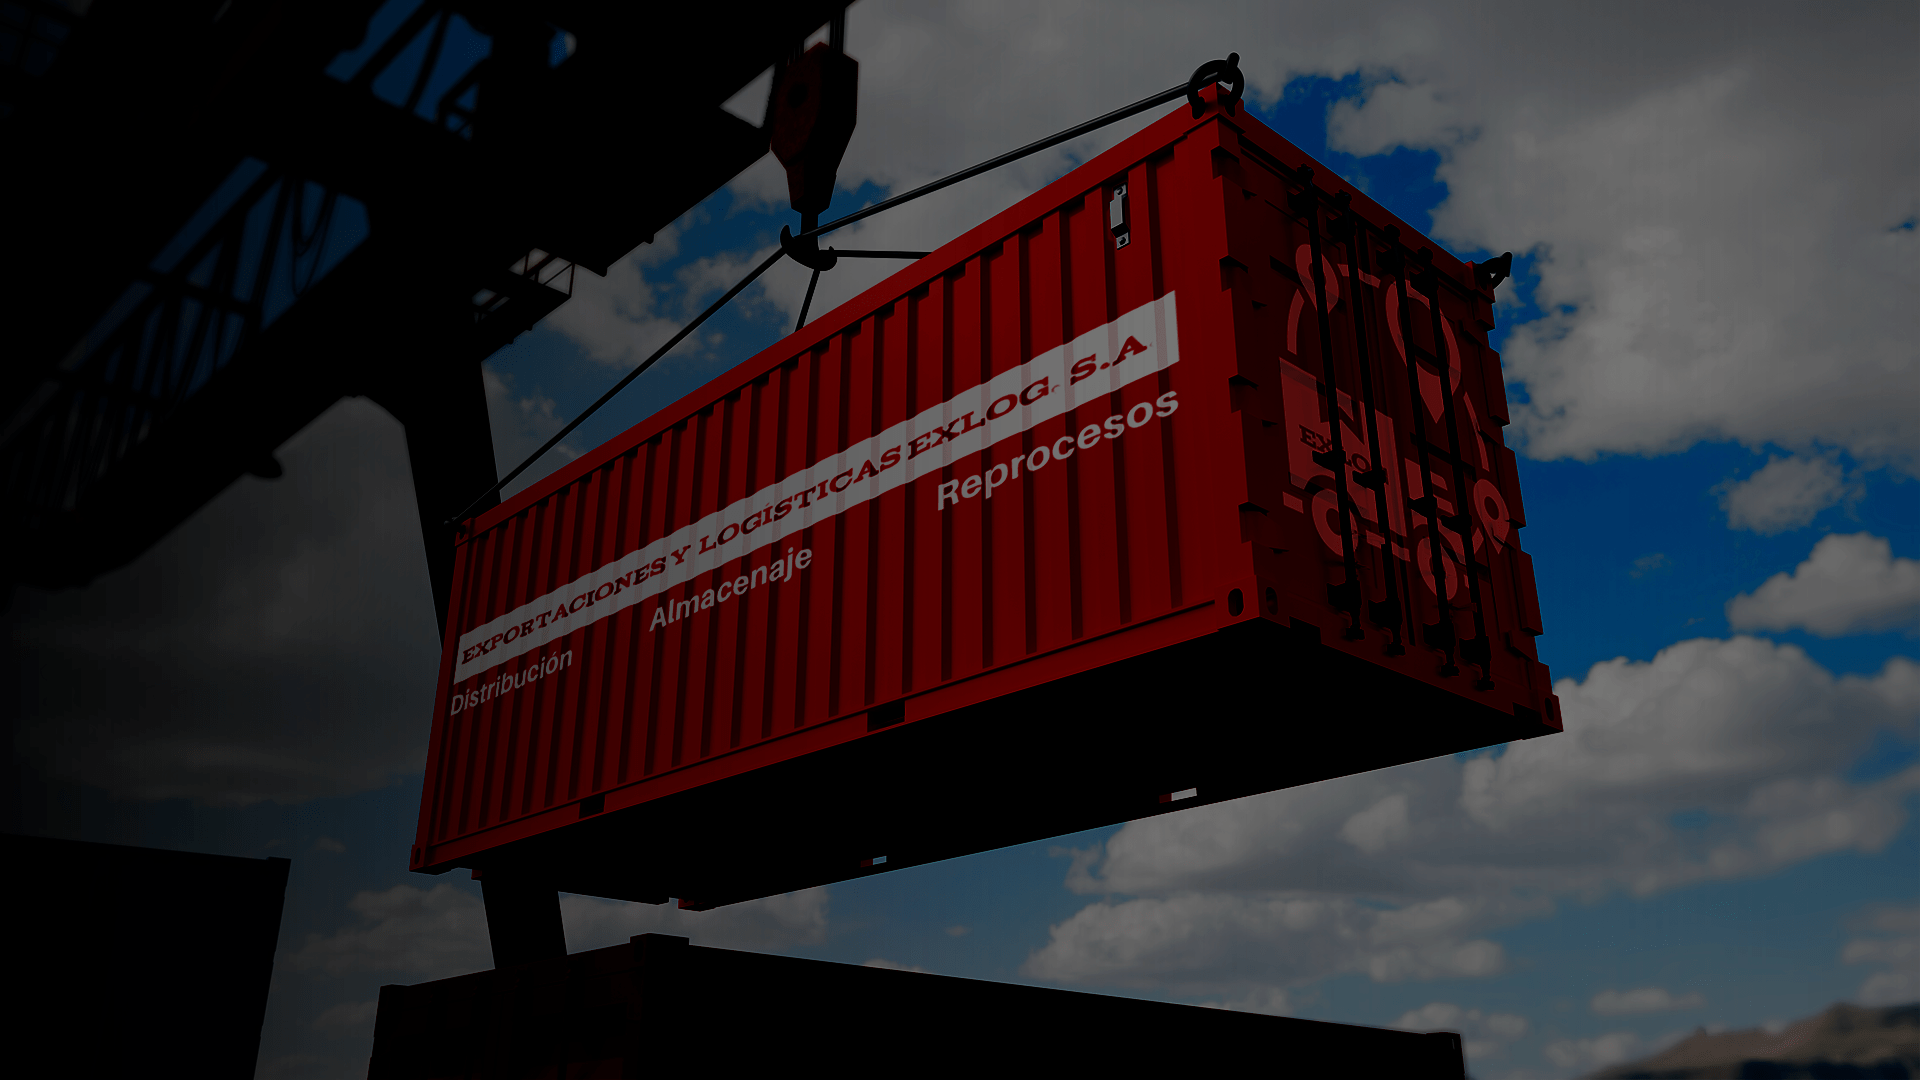
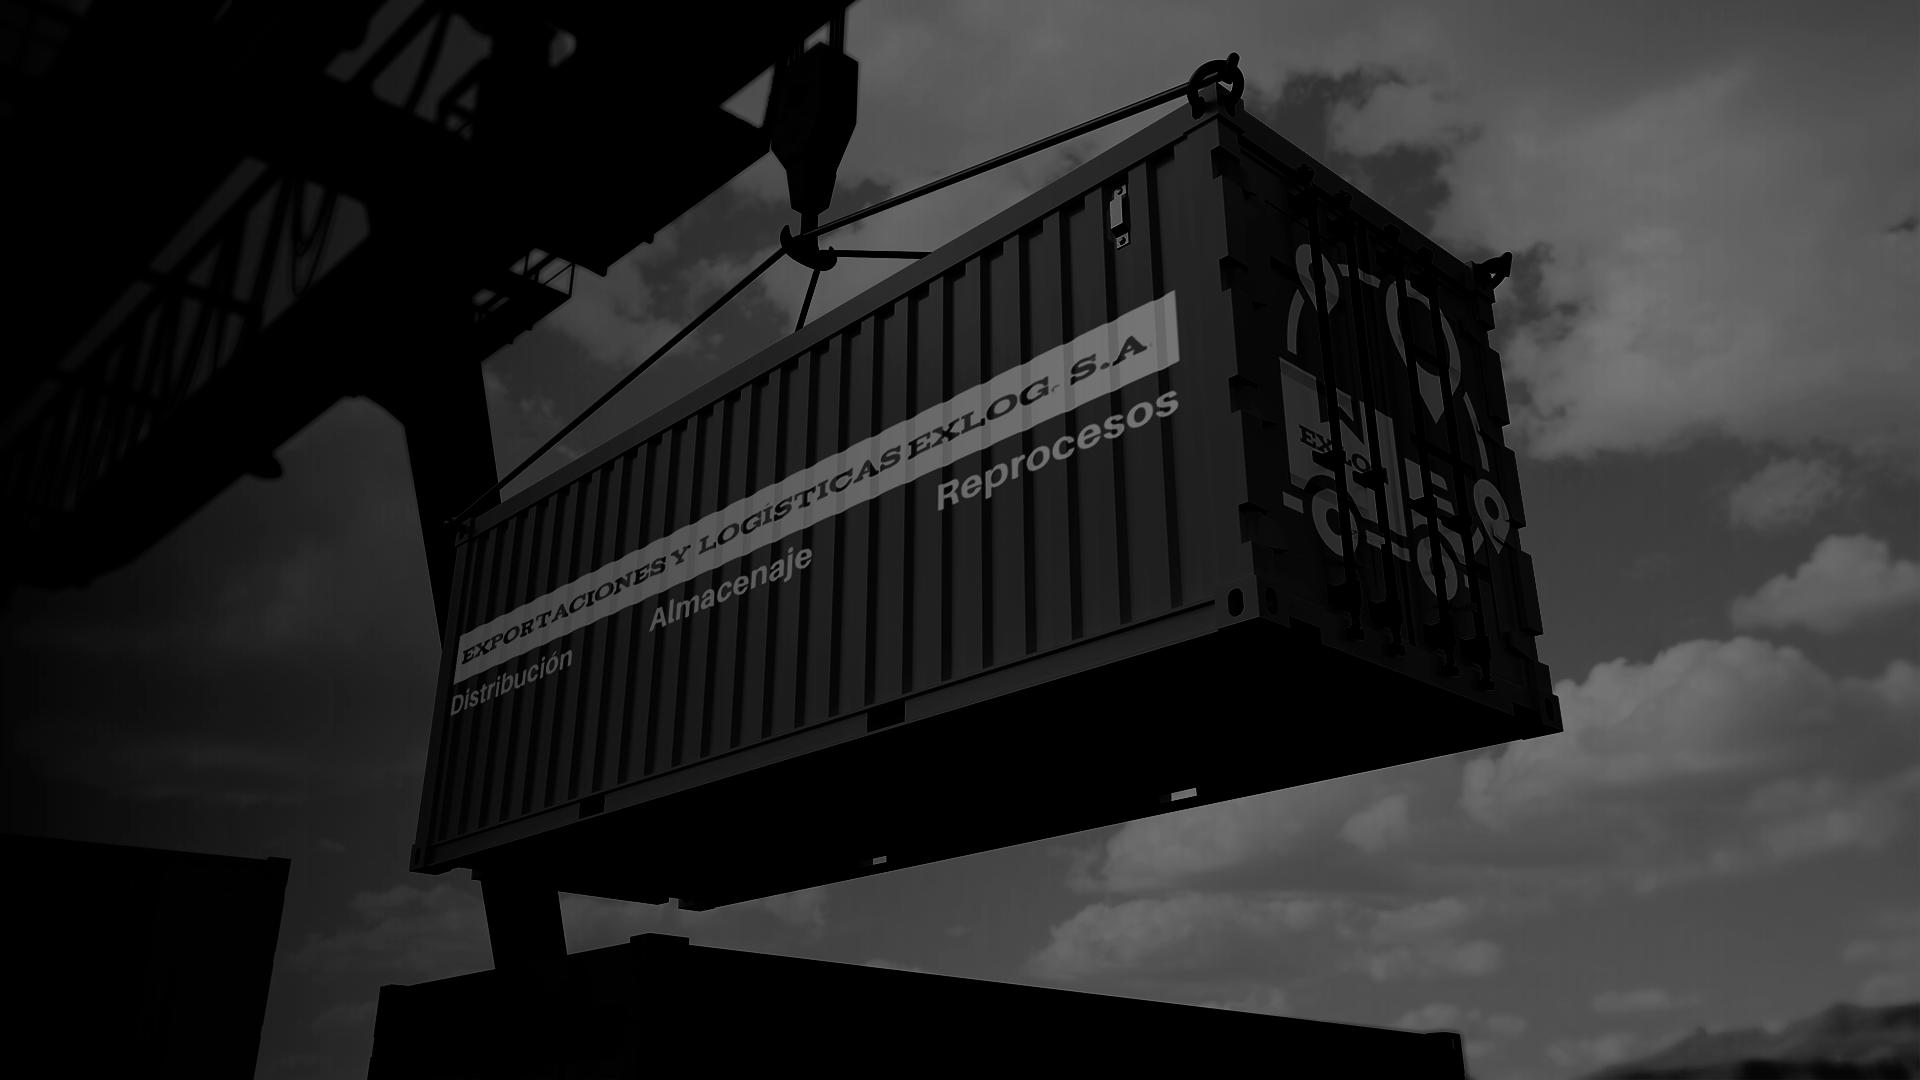
fix: change background to black and white

diff --git a/src/app/page.tsx b/src/app/page.tsx
@@ -1,5 +1,5 @@
 import Image from "next/image"
-import background from "@/assets/background.png"
+import background from "@/assets/background.webp"
 import logo from "@/assets/logo.png"
 import facebook from "@/assets/facebook.png"
 import instagram from "@/assets/instagram.png"
